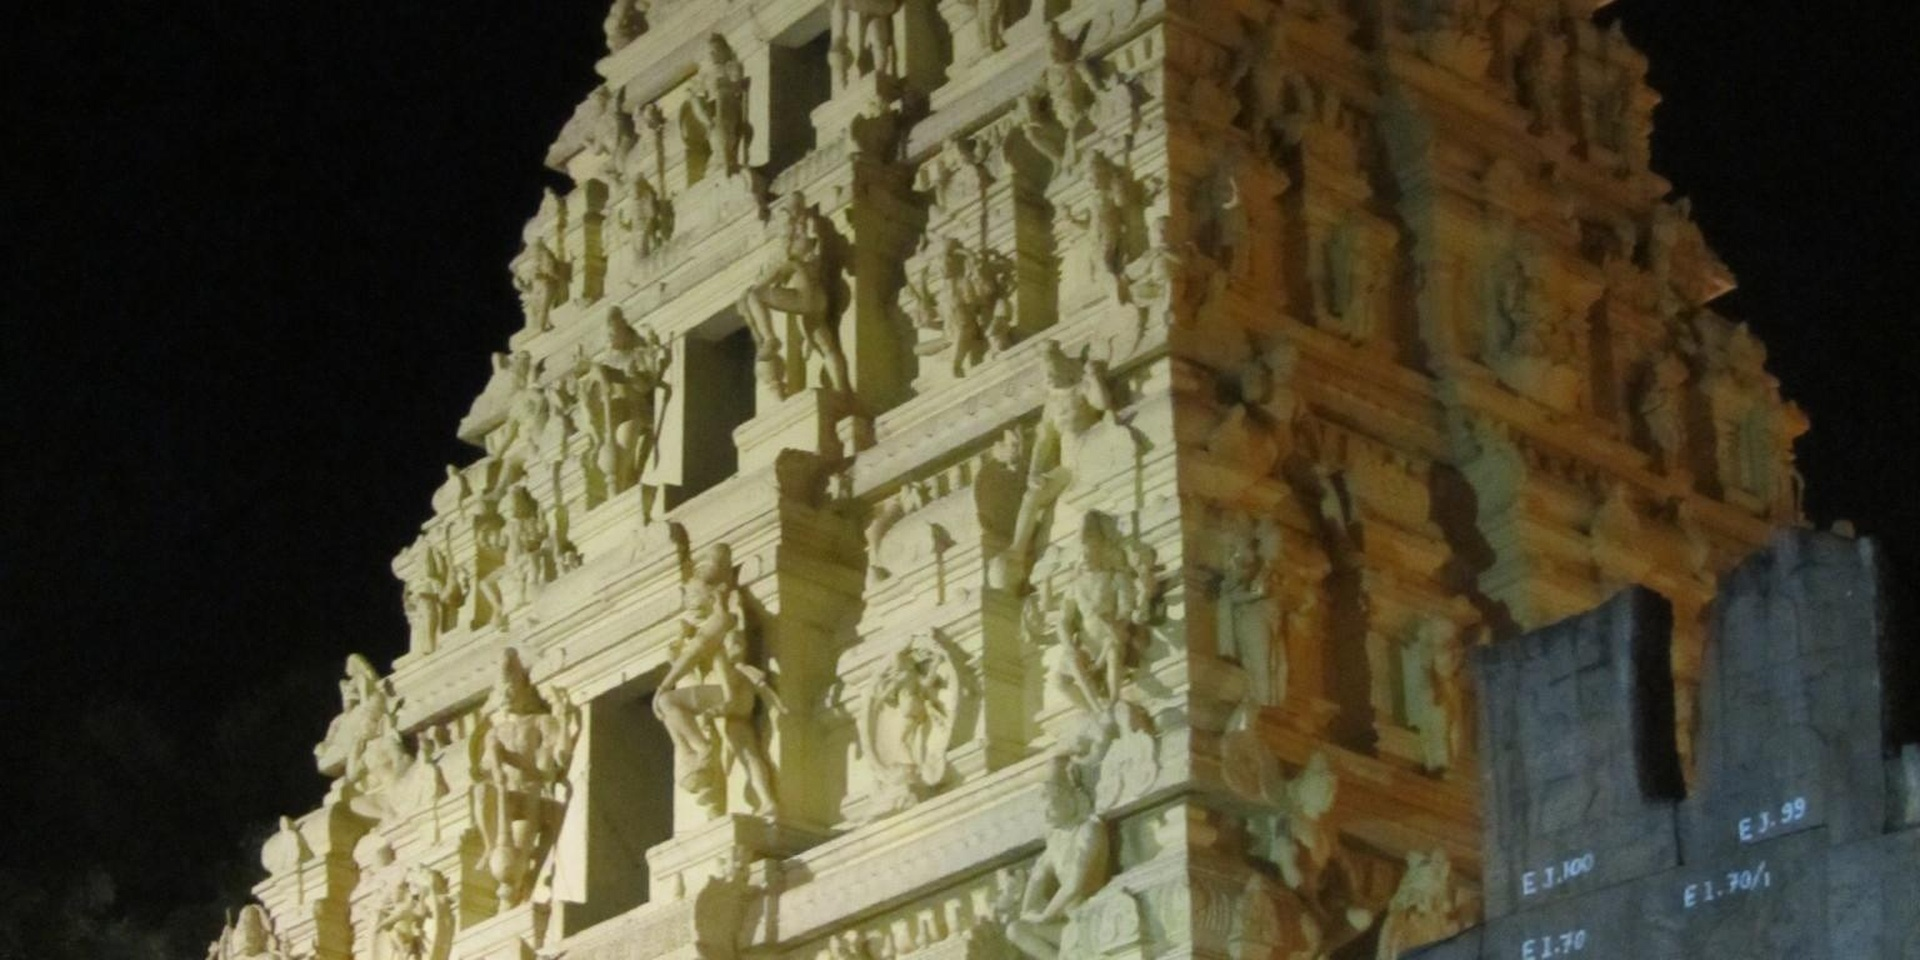
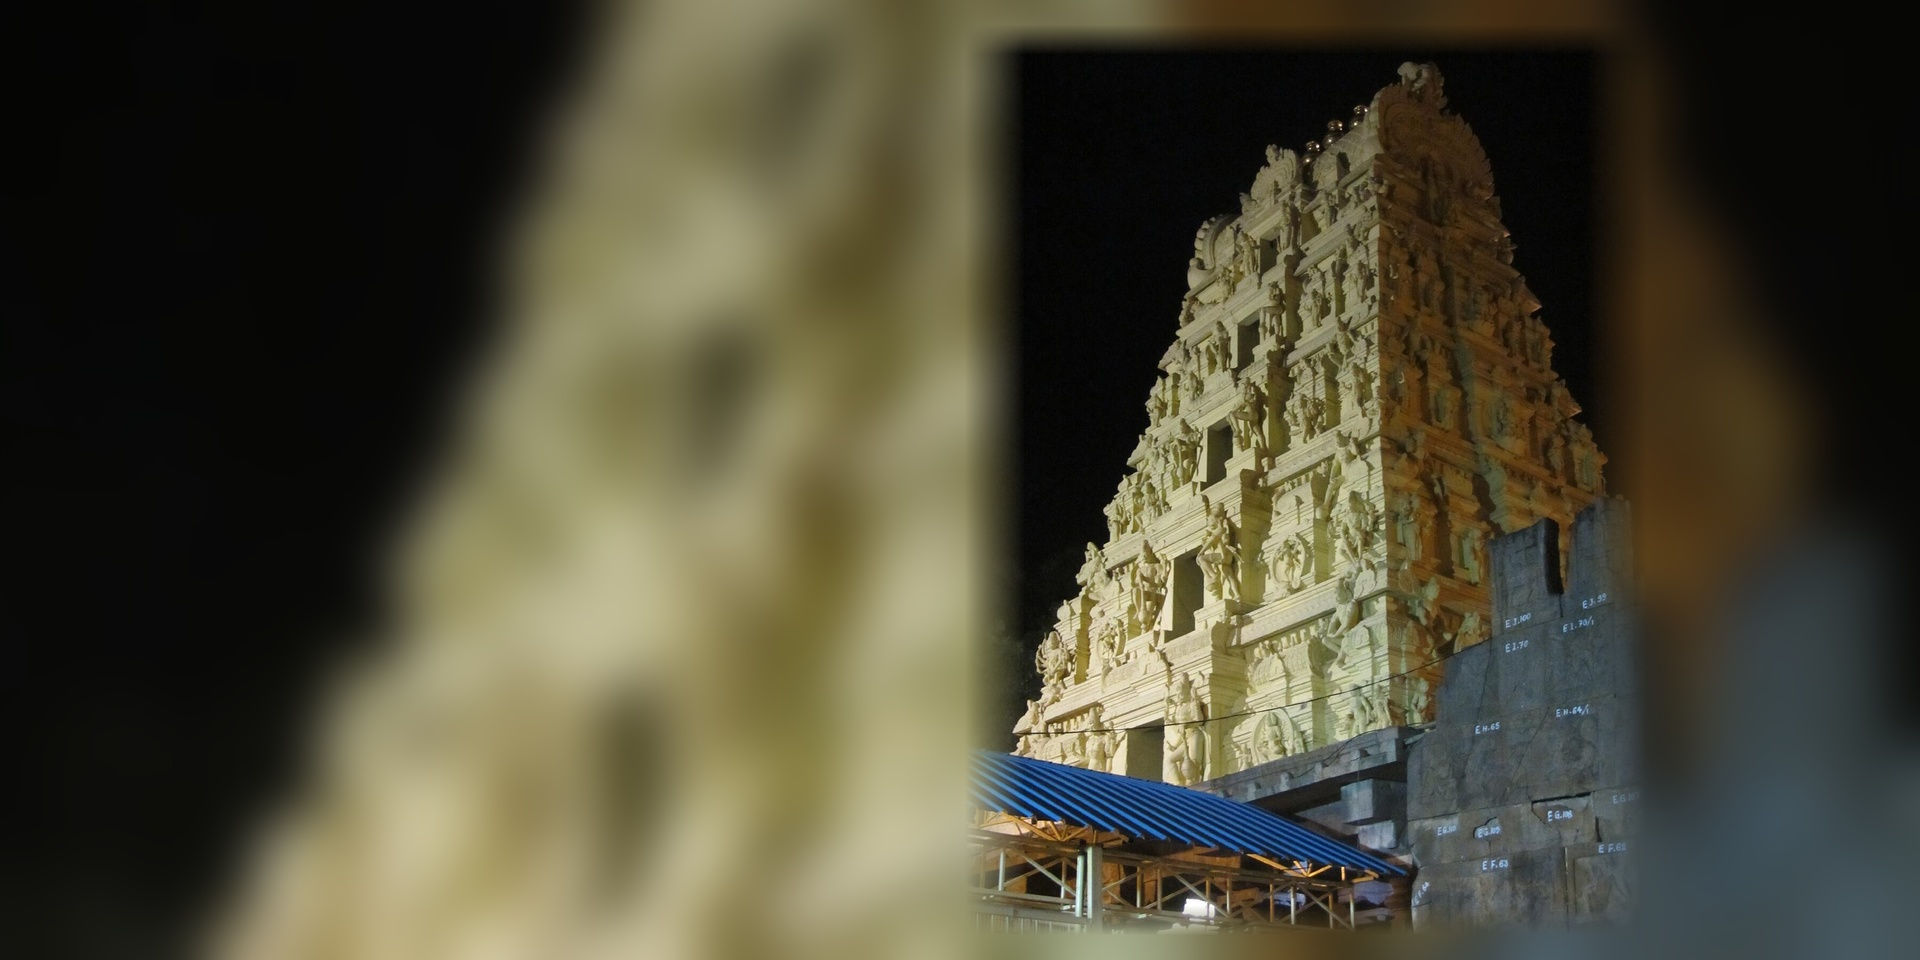
Enhance temple slideshow: Show complete gopuram structures with proper framing and subtle overlay

diff --git a/www.dodlastoursandtravels.in/css/dodla-luxury.css b/www.dodlastoursandtravels.in/css/dodla-luxury.css
@@ -907,20 +907,18 @@ header {
   width: 100% !important;
   height: 100% !important;
   object-fit: cover !important;
-  object-position: center 30% !important;
-  transform: scale(1.04) !important;
-  transition: transform 6s ease-out !important;
+  object-position: center center !important;
   display: block !important;
 }
 
 .hero-cinematic-slide.active .hero-cinematic-img {
-  transform: scale(1) !important;
+  transform: none !important;
 }
 
 .hero-cinematic-overlay {
   position: absolute !important;
   inset: 0 !important;
-  background: linear-gradient(90deg, rgba(20, 10, 5, 0.76) 0%, rgba(20, 10, 5, 0.48) 46%, rgba(20, 10, 5, 0.15) 75%, rgba(20, 10, 5, 0.04) 100%) !important;
+  background: linear-gradient(90deg, rgba(20, 10, 5, 0.62) 0%, rgba(20, 10, 5, 0.35) 44%, rgba(20, 10, 5, 0.08) 68%, rgba(20, 10, 5, 0) 100%) !important;
   z-index: 2 !important;
 }
 
@@ -987,7 +985,7 @@ header {
   line-height: 1.2 !important;
   margin: 0 0 18px 0 !important;
   letter-spacing: -0.01em !important;
-  text-shadow: 0 2px 14px rgba(0, 0, 0, 0.6) !important;
+  text-shadow: 0 2px 16px rgba(0, 0, 0, 0.85), 0 1px 4px rgba(0, 0, 0, 0.9) !important;
 }
 
 .hero-cinematic-lead {
@@ -995,7 +993,7 @@ header {
   color: #F0E6D8 !important;
   line-height: 1.75 !important;
   margin: 0 0 28px 0 !important;
-  text-shadow: 0 1px 8px rgba(0, 0, 0, 0.5) !important;
+  text-shadow: 0 2px 12px rgba(0, 0, 0, 0.85), 0 1px 3px rgba(0, 0, 0, 0.9) !important;
 }
 
 .hero-cinematic-lead strong {

diff --git a/www.dodlastoursandtravels.in/css/dodla-reference-redesign.css b/www.dodlastoursandtravels.in/css/dodla-reference-redesign.css
@@ -3477,20 +3477,18 @@ img {
   width: 100% !important;
   height: 100% !important;
   object-fit: cover !important;
-  object-position: center 30% !important;
-  transform: scale(1.04) !important;
-  transition: transform 6s ease-out !important;
+  object-position: center center !important;
   display: block !important;
 }
 
 .hero-cinematic-slide.active .hero-cinematic-img {
-  transform: scale(1) !important;
+  transform: none !important;
 }
 
 .hero-cinematic-overlay {
   position: absolute !important;
   inset: 0 !important;
-  background: linear-gradient(90deg, rgba(20, 10, 5, 0.76) 0%, rgba(20, 10, 5, 0.48) 46%, rgba(20, 10, 5, 0.15) 75%, rgba(20, 10, 5, 0.04) 100%) !important;
+  background: linear-gradient(90deg, rgba(20, 10, 5, 0.62) 0%, rgba(20, 10, 5, 0.35) 44%, rgba(20, 10, 5, 0.08) 68%, rgba(20, 10, 5, 0) 100%) !important;
   z-index: 2 !important;
 }
 
@@ -3557,7 +3555,7 @@ img {
   line-height: 1.2 !important;
   margin: 0 0 18px 0 !important;
   letter-spacing: -0.01em !important;
-  text-shadow: 0 2px 14px rgba(0, 0, 0, 0.6) !important;
+  text-shadow: 0 2px 16px rgba(0, 0, 0, 0.85), 0 1px 4px rgba(0, 0, 0, 0.9) !important;
 }
 
 .hero-cinematic-lead {
@@ -3565,7 +3563,7 @@ img {
   color: #F0E6D8 !important;
   line-height: 1.75 !important;
   margin: 0 0 28px 0 !important;
-  text-shadow: 0 1px 8px rgba(0, 0, 0, 0.5) !important;
+  text-shadow: 0 2px 12px rgba(0, 0, 0, 0.85), 0 1px 3px rgba(0, 0, 0, 0.9) !important;
 }
 
 .hero-cinematic-lead strong {
